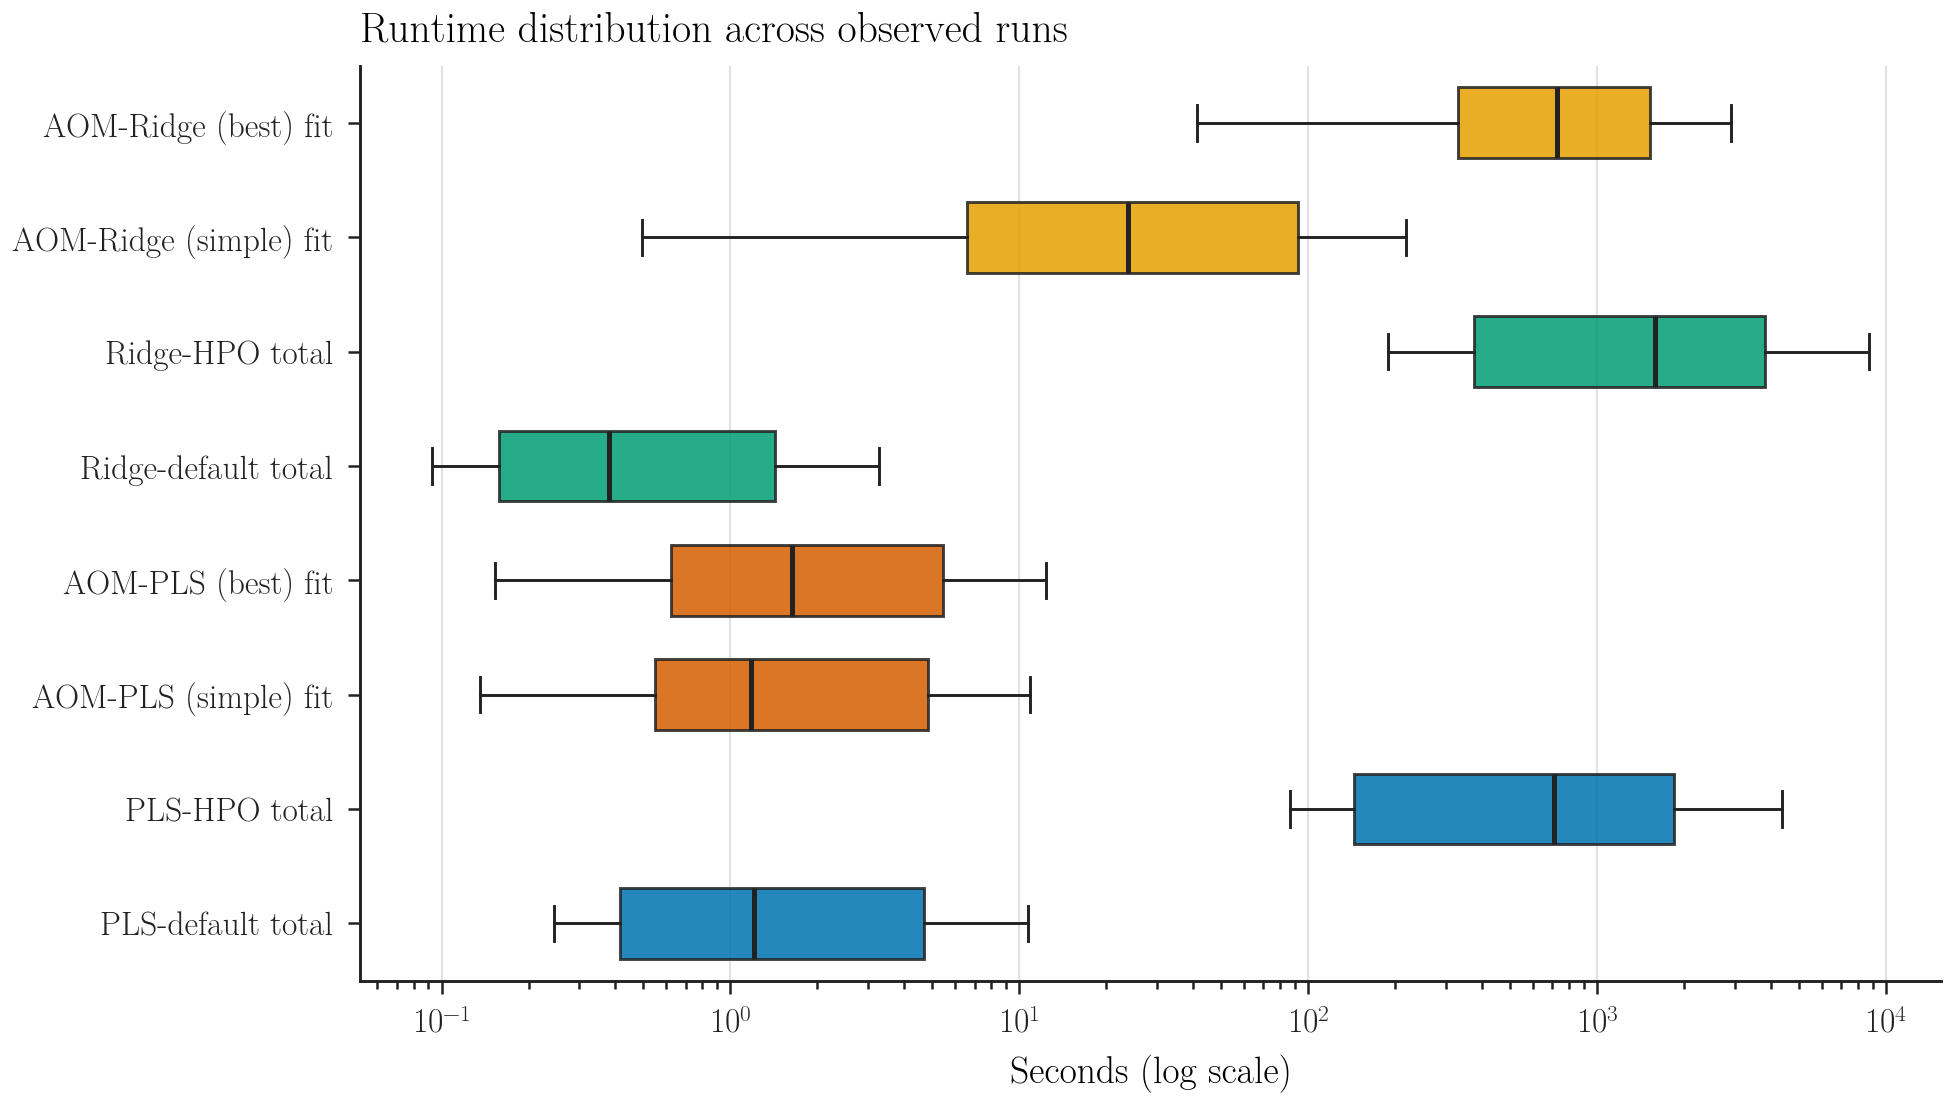
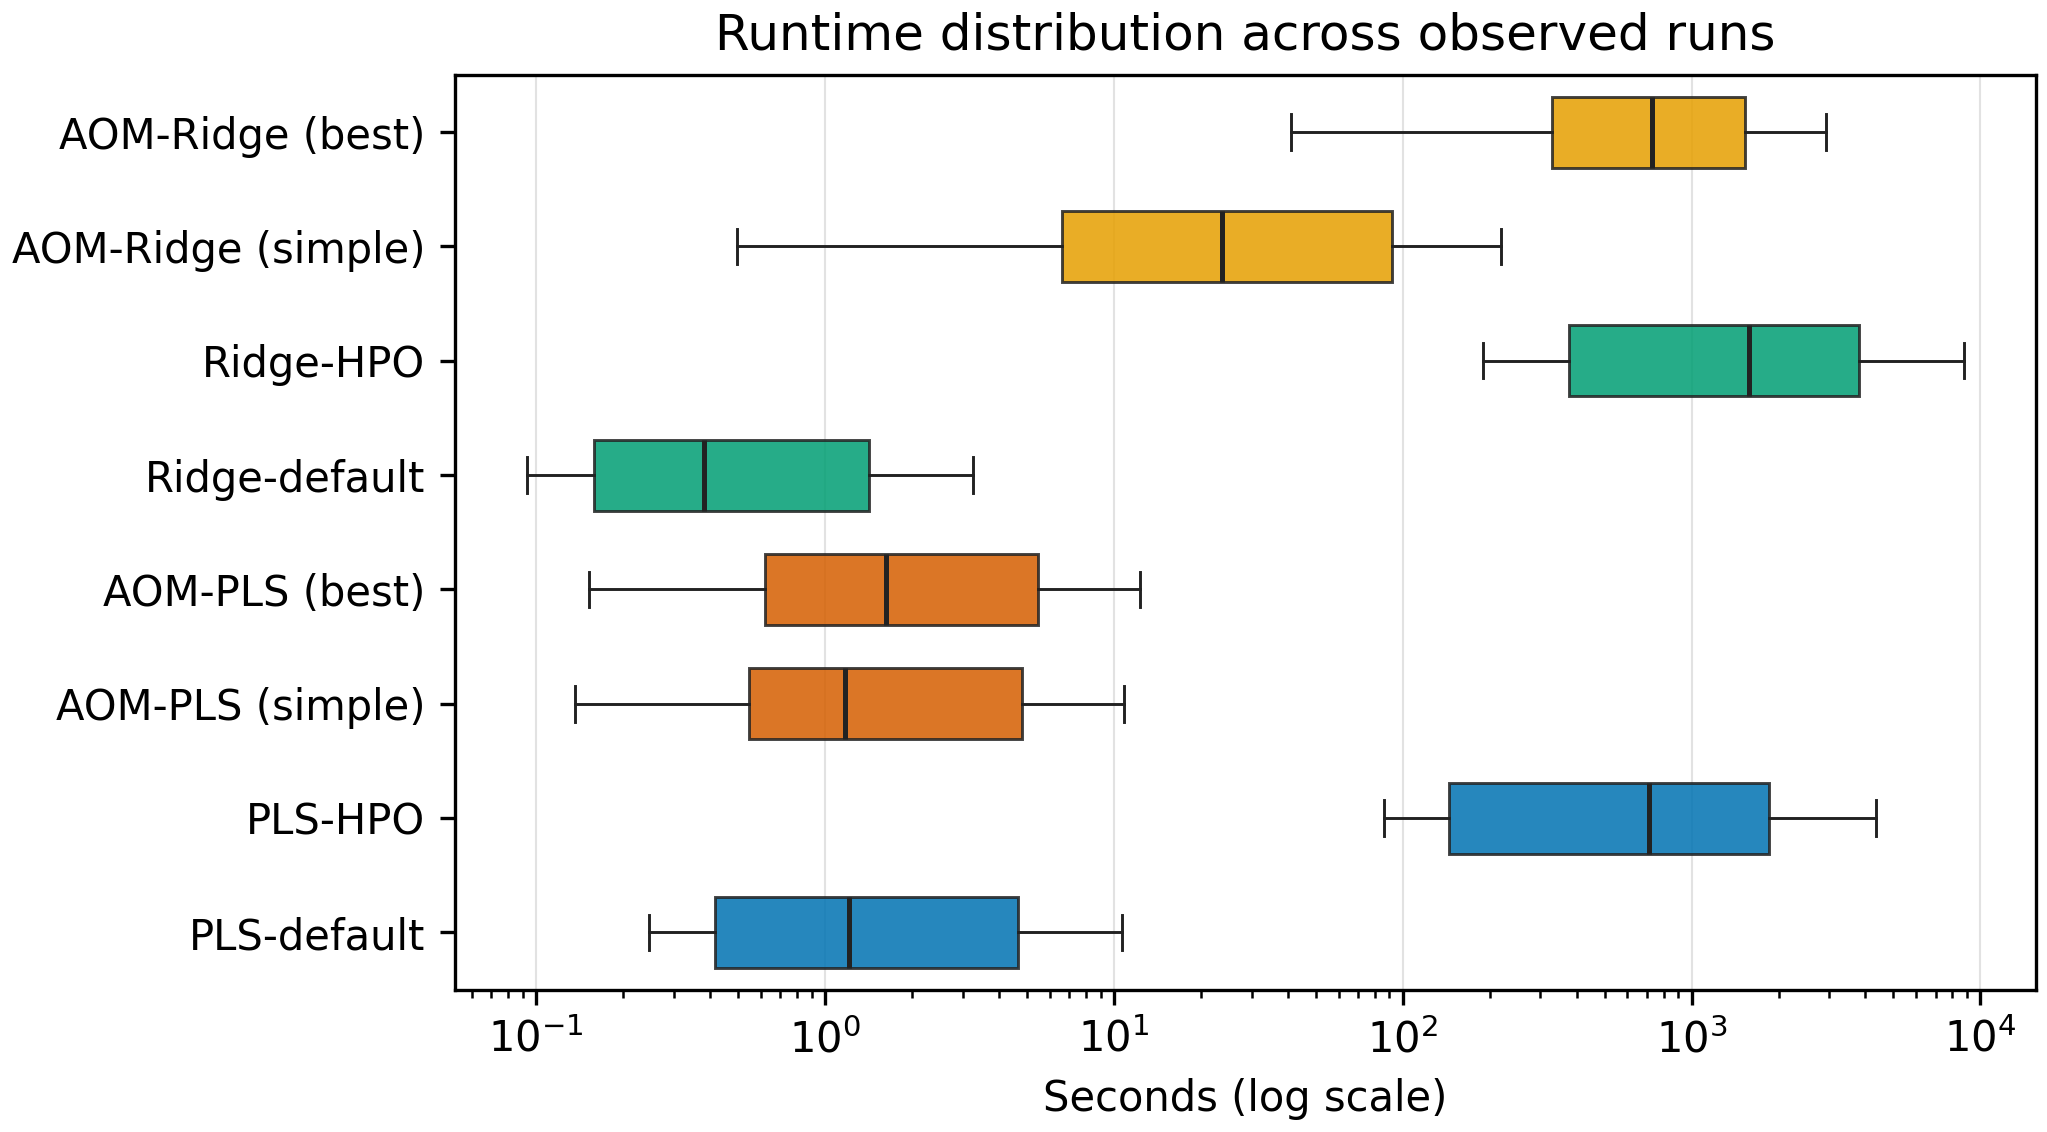
Figure polish: runtime labels, operator-heatmap domains, colorbar spacing
Design-review pass (journal conventions): drop the misleading "fit"/"total"
suffix from runtime-distribution labels (all series plot total_time_s);
capitalize the operator-heatmap domain prefixes for consistency with the
cohort-diversity figure; tidy the dataset-variant heatmap colorbar label spacing.
Regenerated fig_runtime_distribution, fig_operator_heatmap, fig_dataset_variant_heatmap.

diff --git a/paper/review/build_paper_figures.py b/paper/review/build_paper_figures.py
@@ -1527,14 +1527,14 @@ def build_runtime_distribution(dfs: dict[str, pd.DataFrame]) -> None:
     series = []
     labels = []
     specs = [
-        ("PLS-default total", dfs["default"], "pls-default-cv5", "total_time_s"),
-        ("PLS-HPO total", dfs["pls_hpo"], "pls-tabpfn-hpo-25trials", "total_time_s"),
-        ("AOM-PLS (simple) fit", dfs["aompls"], "AOM-compact-cv5-numpy", "total_time_s"),
-        ("AOM-PLS (best) fit", dfs["aompls"], "ASLS-AOM-compact-cv5-numpy", "total_time_s"),
-        ("Ridge-default total", dfs["default"], "ridge-default-cv5", "total_time_s"),
-        ("Ridge-HPO total", dfs["ridge_hpo"], "ridge-tabpfn-hpo-60trials", "total_time_s"),
-        ("AOM-Ridge (simple) fit", dfs["ridge_head"], "AOMRidge-global-compact-none", "total_time_s"),
-        ("AOM-Ridge (best) fit", dfs["ridge_head"], "AOMRidge-Blender-headline-spxy3", "total_time_s"),
+        ("PLS-default", dfs["default"], "pls-default-cv5", "total_time_s"),
+        ("PLS-HPO", dfs["pls_hpo"], "pls-tabpfn-hpo-25trials", "total_time_s"),
+        ("AOM-PLS (simple)", dfs["aompls"], "AOM-compact-cv5-numpy", "total_time_s"),
+        ("AOM-PLS (best)", dfs["aompls"], "ASLS-AOM-compact-cv5-numpy", "total_time_s"),
+        ("Ridge-default", dfs["default"], "ridge-default-cv5", "total_time_s"),
+        ("Ridge-HPO", dfs["ridge_hpo"], "ridge-tabpfn-hpo-60trials", "total_time_s"),
+        ("AOM-Ridge (simple)", dfs["ridge_head"], "AOMRidge-global-compact-none", "total_time_s"),
+        ("AOM-Ridge (best)", dfs["ridge_head"], "AOMRidge-Blender-headline-spxy3", "total_time_s"),
     ]
     for label, df, variant, col in specs:
         vals = df[df["variant"].astype("string").str.lower() == variant.lower()][col].dropna().to_numpy()
@@ -1963,7 +1963,7 @@ def build_operator_heatmap() -> None:
     def _short(name: str, n: int = 38) -> str:
         return name if len(name) <= n else name[: n - 1] + "…"
 
-    y_labels = [f"{domain.get(d, 'other')} : {_short(d)}" for d in datasets]
+    y_labels = [f"{domain.get(d, 'other').title()} : {_short(d)}" for d in datasets]
 
     # Height scaled for ~0.22 inch per row so 7pt labels remain readable.
     row_h = 0.22
@@ -2086,7 +2086,7 @@ def build_dataset_variant_heatmap(dfs: dict[str, pd.DataFrame]) -> None:
     ax.set_title("Per-dataset RMSEP ratios vs PLS-standard")
     cbar = fig.colorbar(im, ax=ax, fraction=0.028, pad=0.012, aspect=40,
                         ticks=[0.70, 0.85, 1.00, 1.15, 1.30])
-    cbar.set_label("RMSEP ratio  (blue = win,  red = loss; clipped to [0.70, 1.30])", fontsize=8.5)
+    cbar.set_label("RMSEP ratio (blue = win, red = loss; clipped to [0.70, 1.30])", fontsize=8.5)
     cbar.ax.tick_params(labelsize=7.5, width=0.5, length=2.5)
     if cbar.outline is not None:
         cbar.outline.set_linewidth(0.5)  # type: ignore[operator]  # matplotlib stubs are imprecise